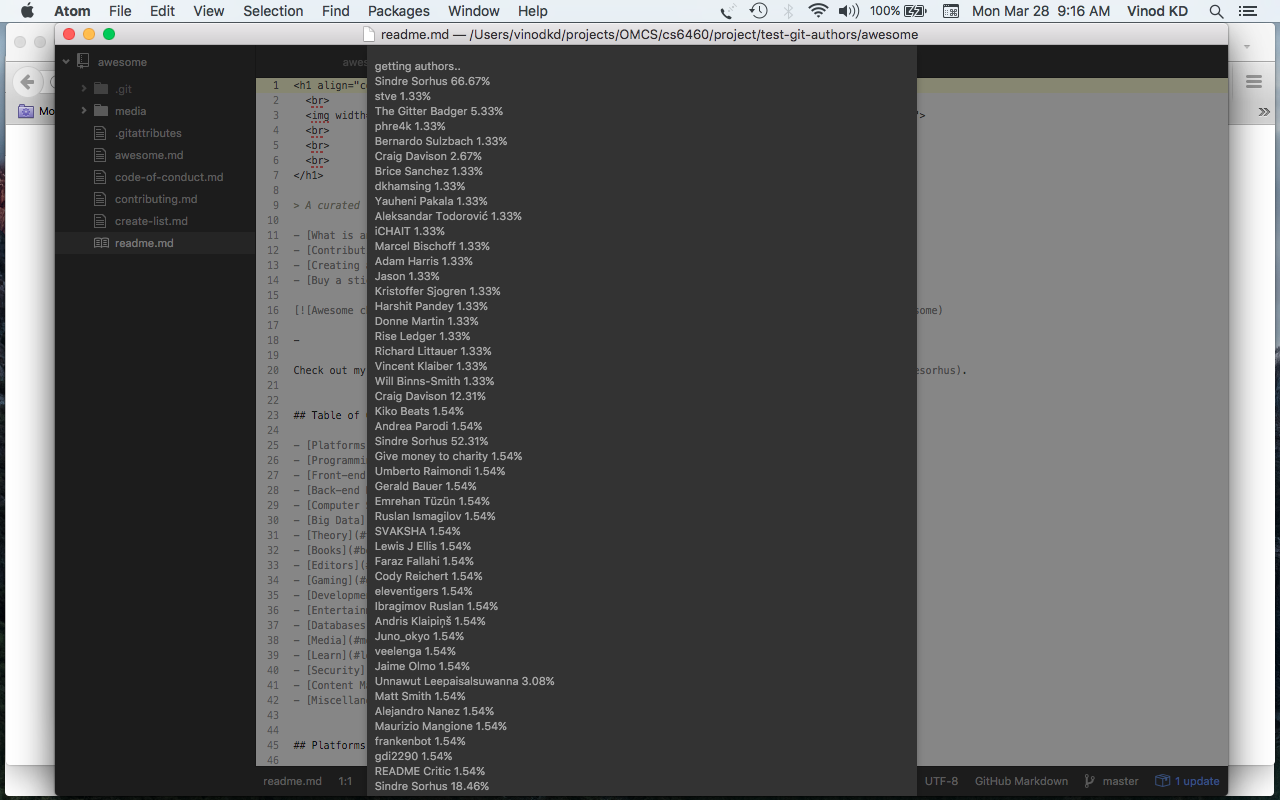
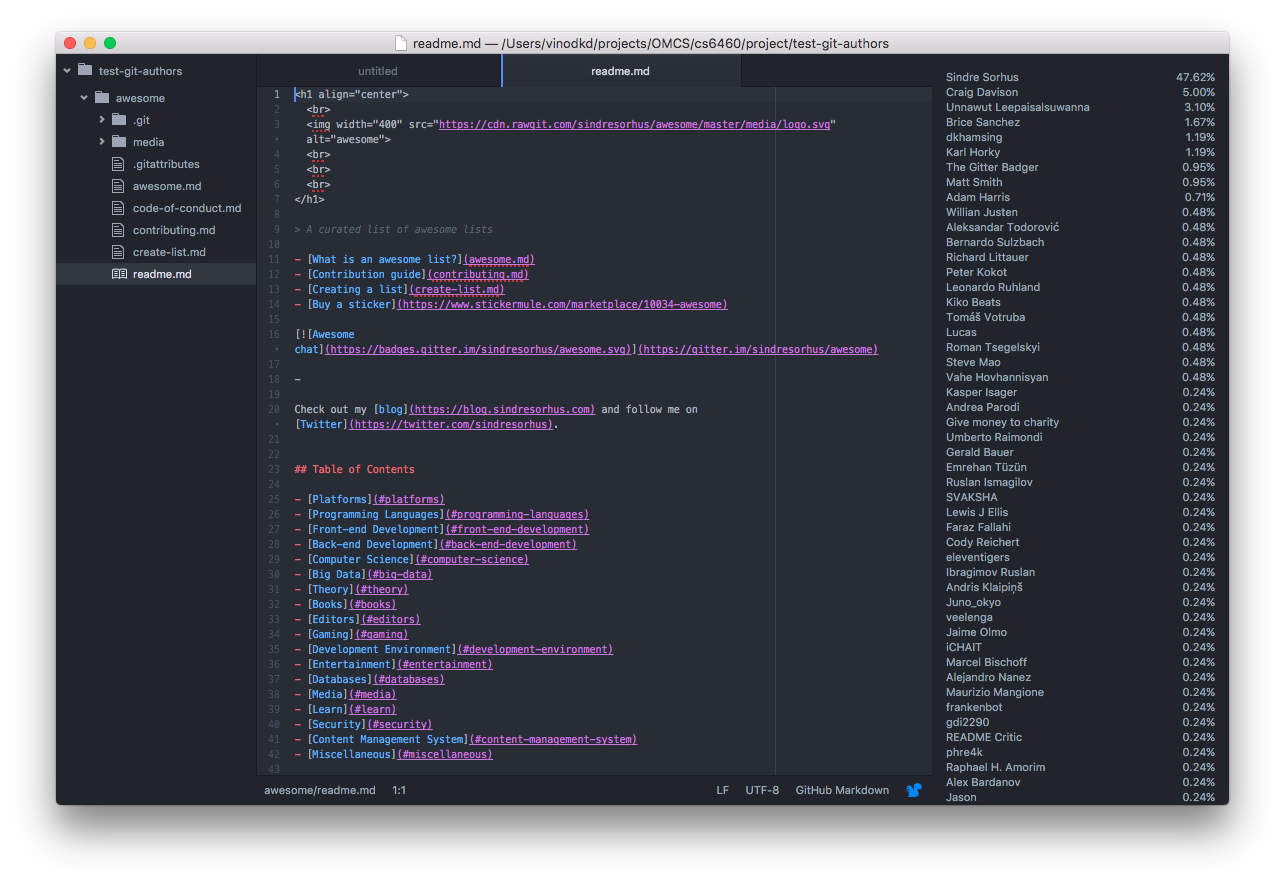
Sort the author list and show % contrib correctly
Addresses
---------
Author list had unsorted contributions and duplications.

Why
---
I didnt understand how BufferedProcess worked before. It actually calls stdout
multiple times and exit once. Since I expected stdout to behave like exit, I'd a
added the finishing logic there, which resulted in duplicates and wrong data.

I have now fixed it and all the aggregation happens after all data has been read.
Also, authNames and linecount vars are closed in from the parent function, so
aggregation happens correctly.

What
----
* The view code to do aggregation right
* The readme and screenshot now reflects the correct functionality and view

diff --git a/README.md b/README.md
@@ -2,7 +2,7 @@
 View the authors for the currently open file
 
 # Introduction
-**git-authors** is a simple addition to your editor - it displays the authors for a file so that you can contact them if required.
+**git-authors** is a simple addition to your editor - it displays the authors for a file so that you can contact them if required. Their % contributions are also shown.
 
 Screenshot of the tool run on the awesome list repo's readme file:
 ![Screenshot of the tool run on the awesome list repo's readme file](https://raw.githubusercontent.com/groktools/git-authors/master/git-authors.jpg)
